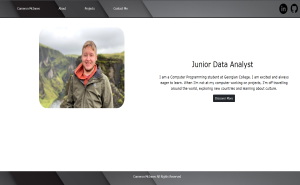
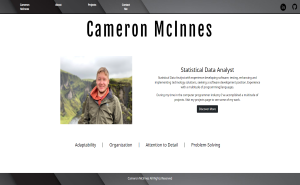
Page Edits Spelling, and formatting

diff --git a/public/stylesheets/style.css b/public/stylesheets/style.css
@@ -9,12 +9,12 @@ body{
   /* Possible Backup Secondary Font Style
   font-family: 'lato', sans-serif ;*/
   overflow-x: hidden;
+  position: relative;
+  min-height: 100vh;
 }
 h1{
  /*Main Font Style*/
   font-family: 'Fjalla One',sans-serif;
- /*Possible Backup Font Style
-   font-family: 'Pacifico', 'Trebuchet MS' ,sans-serif;*/
   font-size: 5vw;
   padding:20px;
   letter-spacing: 10px;
@@ -37,15 +37,19 @@ nav{
  
 }
 /*Set Footer CSS*/
+/*Leave space for footer*/
+#contentWrap{
+padding-bottom: 2.5rem;
+}
 footer{
   background-image: url("../images/backgroundMain.jpg");
   background-repeat: no-repeat;
   background-size: cover;
-  position: fixed;
-  width:100%;
-  bottom: 0px;
-top:auto;
-
+  position: relative;
+  position: absolute;
+  bottom: 0;
+  width: 100%;
+  height: 4rem;  
   border-top-style: solid;
   color: #FFF;
 }
@@ -115,20 +119,21 @@ height:50px;
 .img-responsive{
   object-fit:contain;
   width: 50%;
-  height:75%;
+  height:85%;
   border-radius: 10px;
   float:left;
-  margin-top: 75px;
-  margin-left: 200px;
-  margin-right: 200px;
+  margin-top: 50px;
+  margin-left: 40%;
 }
 
 #quickAboutContent{
-  margin-right: 25%;
-  margin-top: 150px;
+  width: 75%;
+  margin-top: 100px;
+  margin-right: 50%;
 }
 #skills{
-  font-size: 1.25vw;;
+  padding-top: 75px;
+  font-size:1.25vw;
 }
 #skills span{
   padding-right: 30px;
@@ -138,6 +143,8 @@ height:50px;
   display: flex;
   flex-wrap: nowrap;
   overflow-x: auto;
+  width: 75%;
+  margin:auto;
 }
 .thumbnail{
   flex: 0 0 auto;
@@ -149,10 +156,6 @@ height:50px;
   margin:auto;
 }
 /**Projects**/
-#projectcontainer{
- text-align: center;
- padding:20px;
-}
 .card{
   display:inline-block;
   color: #FFF;
@@ -160,12 +163,15 @@ height:50px;
   margin:30px;
 }
 .card h5{
-  padding:10px;
+  padding:8px;
+}
+.card a{
+  padding-bottom: 8px;
 }
 #contractbtn{
 visibility:hidden;
 }
-/*Contact*/
+/*Contact*/ 
 
 .formItem{
   display: block;
